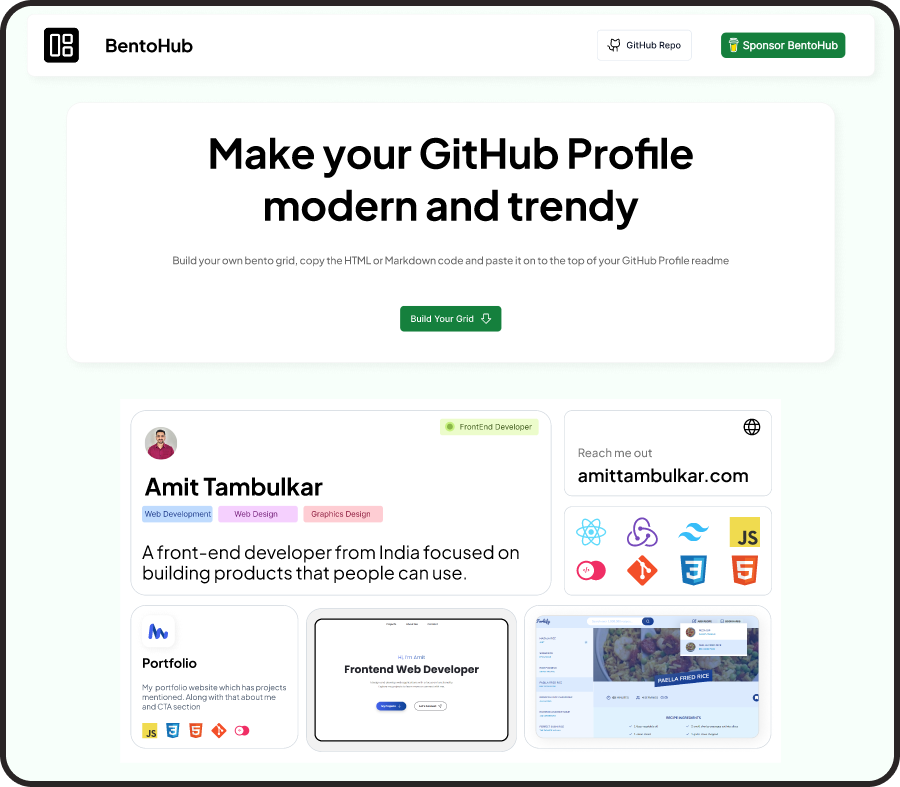
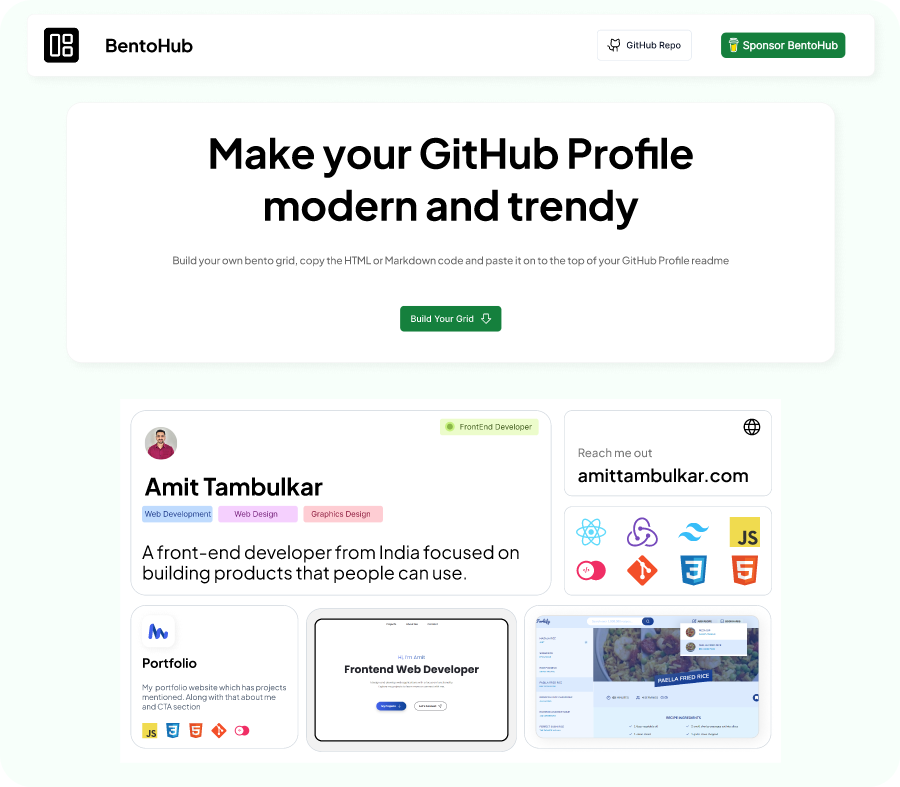
chore: add image upload to local storage and display in grid

Changed region(s): [[0.0, 0.0, 1.0, 1.0]]

diff --git a/src/BentoGrid.jsx b/src/BentoGrid.jsx
@@ -2,6 +2,7 @@
 import { Avatar, AvatarFallback, AvatarImage } from "@/components/ui/avatar";
 import { Badge } from "@/components/ui/badge";
 import { Globe } from "@phosphor-icons/react";
+import { useEffect, useState } from "react";
 
 export default function BentoGrid({
   name,
@@ -11,6 +12,12 @@ export default function BentoGrid({
   primarySkill,
   secondarySkill,
   tertiarySkill,
+  avatar,
+  projectName,
+  projectLogo,
+  projectIntro,
+  selectProject1Image,
+  selectProject2Image,
 }) {
   return (
     <section className="mx-4 mb-8 flex w-auto flex-col items-center rounded-3xl bg-white px-6 py-8 text-center drop-shadow-[3px_3px_18px_rgba(0,0,0,0.06)] md:px-12 md:py-12 lg:px-12 lg:py-12 xl:mx-auto xl:w-[75rem]">
@@ -22,6 +29,12 @@ export default function BentoGrid({
         primarySkill={primarySkill}
         secondarySkill={secondarySkill}
         tertiarySkill={tertiarySkill}
+        avatar={avatar}
+        projectName={projectName}
+        projectLogo={projectLogo}
+        projectIntro={projectIntro}
+        selectProject1Image={selectProject1Image}
+        selectProject2Image={selectProject2Image}
       />
     </section>
   );
@@ -35,9 +48,40 @@ function Grid({
   primarySkill,
   secondarySkill,
   tertiarySkill,
+  avatar,
+  projectName,
+  projectLogo,
+  projectIntro,
+  selectProject1Image,
+  selectProject2Image,
 }) {
+  const [projectImage, setProjectImage] = useState(null);
+  const [projectImage2, setProjectImage2] = useState(null);
+
+  useEffect(
+    function () {
+      const projectSnap = localStorage.getItem("projectScreenshot");
+
+      if (projectSnap) {
+        setProjectImage(projectSnap);
+      }
+    },
+    [selectProject1Image],
+  );
+
+  useEffect(
+    function () {
+      const projectSnap2 = localStorage.getItem("projectScreenshot2");
+
+      if (projectSnap2) {
+        setProjectImage2(projectSnap2);
+      }
+    },
+    [selectProject2Image],
+  );
+
   return (
-    <div className="grid max-w-[65rem] grid-cols-2 gap-4 lg:grid-cols-12 lg:grid-rows-12">
+    <div className="grid max-h-[35rem] max-w-[65rem] grid-cols-2 gap-4 lg:grid-cols-12 lg:grid-rows-12">
       <div className="relative col-span-2 flex max-w-full flex-col items-start rounded-3xl border border-slate-300 p-6 pt-8 text-start lg:col-span-8 lg:row-span-6">
         <div className="absolute right-4 top-4 flex items-center gap-3 rounded-md bg-green-100 px-3 py-1 text-sm">
           <img className="static h-6 w-6" src="/circle-svgrepo-com.svg" />
@@ -45,7 +89,13 @@ function Grid({
         </div>
         <div className="mt-6 pb-6 sm:mt-0">
           <Avatar>
-            <AvatarImage src="https://github.com/shadcn.png" />
+            <AvatarImage
+              src={
+                avatar
+                  ? avatar
+                  : `https://upload.wikimedia.org/wikipedia/commons/2/2c/Default_pfp.svg`
+              }
+            />
             <AvatarFallback>Avatar</AvatarFallback>
           </Avatar>
         </div>
@@ -151,25 +201,33 @@ function Grid({
       </div>
       <div className="col-span-2 flex flex-col items-start justify-center rounded-3xl border border-slate-300 p-6 text-start md:col-span-1 lg:col-span-3 lg:row-span-6">
         <div className="mb-4 flex h-14 w-14 items-center justify-center rounded-lg border-slate-200 bg-white p-2 shadow">
-          <img src="/BentoHub.svg" alt="project logo" />
+          <img
+            src={
+              projectLogo
+                ? projectLogo
+                : `https://www.amittambulkar.com/logo.svg`
+            }
+            alt="project logo"
+          />
         </div>
-        <h4 className="mb-6 text-lg font-semibold">BentoHub</h4>
+        <h4 className="mb-6 text-lg font-semibold">{projectName}</h4>
         <p className="text-sm">
-          Build your own bento grid, copy the HTML or Markdown code and paste it
-          on to the top of your GitHub Profile readme.
+          {projectIntro
+            ? projectIntro
+            : `Add one line intro for your capstone project here. Showcase the features in few simple words.`}
         </p>
       </div>
       <div className="col-span-2 flex items-center justify-center rounded-3xl border border-slate-300 p-4 md:col-span-1 lg:col-span-4 lg:row-span-6">
         <img
-          className="h-60 w-auto"
-          src="/BentoHubSnap.png"
+          className="max-h-full w-auto rounded-lg border-[3px] border-slate-800 shadow-xl"
+          src={projectImage ? projectImage : `/BentoHubSnap.png`}
           alt="bento hub app screenshot"
         />
       </div>
       <div className="col-span-2 flex items-center justify-center overflow-hidden rounded-3xl border border-slate-300 p-6 md:col-span-1 lg:col-span-5 lg:row-span-6">
         <img
-          className="rounded-lg border-2 border-slate-800 shadow-xl"
-          src="/portfolio.png"
+          className="max-h-full w-auto rounded-lg border-[3px] border-slate-800 shadow-xl"
+          src={projectImage2 ? projectImage2 : `/portfolio.png`}
           alt="Portfolio screenshot"
         />
       </div>

diff --git a/src/Form2.jsx b/src/Form2.jsx
@@ -5,27 +5,55 @@ import { Button } from "@/components/ui/button";
 import { Upload } from "@phosphor-icons/react";
 import { Textarea } from "@/components/ui/textarea";
 
-export function Form2({ onThirdStep, onSecondStep }) {
+export function Form2({
+  onThirdStep,
+  onSecondStep,
+  avatar,
+  onAvatar,
+  projectName,
+  onProjectName,
+  projectLogo,
+  onProjectLogo,
+  projectIntro,
+  onProjectIntro,
+  onImage1Upload,
+  onImage2Upload,
+}) {
   return (
     <form className="flex flex-col items-start gap-8 lg:grid lg:grid-cols-12">
       <div className="flex w-full flex-col items-start gap-8 lg:col-span-5">
         <div className="flex w-[90%] flex-col space-y-2">
           <Label htmlFor="name">Avatar</Label>
-          <Input id="name" placeholder="Copy & Paste your image address" />
+          <Input
+            id="name"
+            placeholder="Copy & Paste your image address"
+            value={avatar}
+            onChange={(e) => onAvatar(e.target.value)}
+          />
           <p className="text-sm text-rose-600 opacity-0">
             Please add your avatar image
           </p>
         </div>
         <div className="flex w-[90%] flex-col space-y-2">
           <Label htmlFor="name">Project Name</Label>
-          <Input id="name" placeholder="Enter capstone project name" />
+          <Input
+            id="name"
+            placeholder="Enter capstone project name"
+            value={projectName}
+            onChange={(e) => onProjectName(e.target.value)}
+          />
           <p className="text-sm text-rose-600 opacity-0">
             Please enter your first or full name
           </p>
         </div>
         <div className="flex w-[90%] flex-col space-y-2">
           <Label htmlFor="name">Project Logo</Label>
-          <Input id="name" placeholder="Copy & Paste your image address" />
+          <Input
+            id="name"
+            placeholder="Copy & Paste your image address"
+            value={projectLogo}
+            onChange={(e) => onProjectLogo(e.target.value)}
+          />
           <p className="text-sm text-rose-600 opacity-0">
             Please add your capstone project logo
           </p>
@@ -37,6 +65,8 @@ export function Form2({ onThirdStep, onSecondStep }) {
           <Textarea
             id="name"
             placeholder="Enter your one sentence project intro"
+            value={projectIntro}
+            onChange={(e) => onProjectIntro(e.target.value)}
           />
           <p className="text-sm text-rose-600 opacity-0">
             Please enter your capstone project intro
@@ -50,6 +80,7 @@ export function Form2({ onThirdStep, onSecondStep }) {
               type="file"
               className="w-full pr-12"
               placeholder="Upload image of your project"
+              onChange={onImage1Upload}
             />
             <Button variant="ghost" type="button" className="absolute right-2">
               <Upload size={20} />
@@ -64,6 +95,7 @@ export function Form2({ onThirdStep, onSecondStep }) {
               type="file"
               className="w-full pr-12"
               placeholder="Upload image of your project"
+              onChange={onImage2Upload}
             />
             <Button variant="ghost" type="button" className="absolute right-2">
               <Upload size={20} />

diff --git a/src/App.jsx b/src/App.jsx
@@ -20,17 +20,45 @@ export default function App() {
   const [tertiarySkill, setTertiarySkill] = useState("Graphics Design");
   const [secondStep, setSecondStep] = useState(false);
   const [thirdStep, setThirdStep] = useState(false);
+  const [avatar, setAvatar] = useState("");
+  const [projectName, setProjectName] = useState("My Project");
+  const [projectLogo, setProjectLogo] = useState("");
+  const [projectIntro, setProjectIntro] = useState("");
+  const [selectProject1Image, setSelectProject1Image] = useState(null);
+  const [selectProject2Image, setSelectProject2Image] = useState(null);
 
   function handleSecondStep() {
     setSecondStep(!secondStep);
   }
 
-  // function handleBackToFirstStep() {
-  //   setSecondStep(true);
-  // }
-
   function handleThirdStep() {
     setThirdStep(!thirdStep);
+  }
+
+  function handleImage1Upload(e) {
+    const file = e.target.files[0];
+    const reader = new FileReader();
+
+    reader.onloadend = function () {
+      const base64string = reader.result;
+      localStorage.setItem("projectScreenshot", base64string);
+      setSelectProject1Image(base64string);
+    };
+
+    reader.readAsDataURL(file);
+  }
+
+  function handleImage2Upload(e) {
+    const file = e.target.files[0];
+    const reader = new FileReader();
+
+    reader.onloadend = function () {
+      const base64string = reader.result;
+      localStorage.setItem("projectScreenshot2", base64string);
+      setSelectProject2Image(base64string);
+    };
+
+    reader.readAsDataURL(file);
   }
 
   return (
@@ -60,6 +88,16 @@ export default function App() {
           <Form2
             onThirdStep={handleThirdStep}
             onSecondStep={handleSecondStep}
+            avatar={avatar}
+            onAvatar={setAvatar}
+            projectName={projectName}
+            onProjectName={setProjectName}
+            projectLogo={projectLogo}
+            onProjectLogo={setProjectLogo}
+            projectIntro={projectIntro}
+            onProjectIntro={setProjectIntro}
+            onImage1Upload={handleImage1Upload}
+            onImage2Upload={handleImage2Upload}
           />
         ) : (
           <Form3 onThirdStep={handleThirdStep} />
@@ -73,6 +111,12 @@ export default function App() {
         primarySkill={primarySkill}
         secondarySkill={secondarySkill}
         tertiarySkill={tertiarySkill}
+        avatar={avatar}
+        projectName={projectName}
+        projectLogo={projectLogo}
+        projectIntro={projectIntro}
+        selectProject1Image={selectProject1Image}
+        selectProject2Image={selectProject2Image}
       />
       <CTA />
       <Footer />
